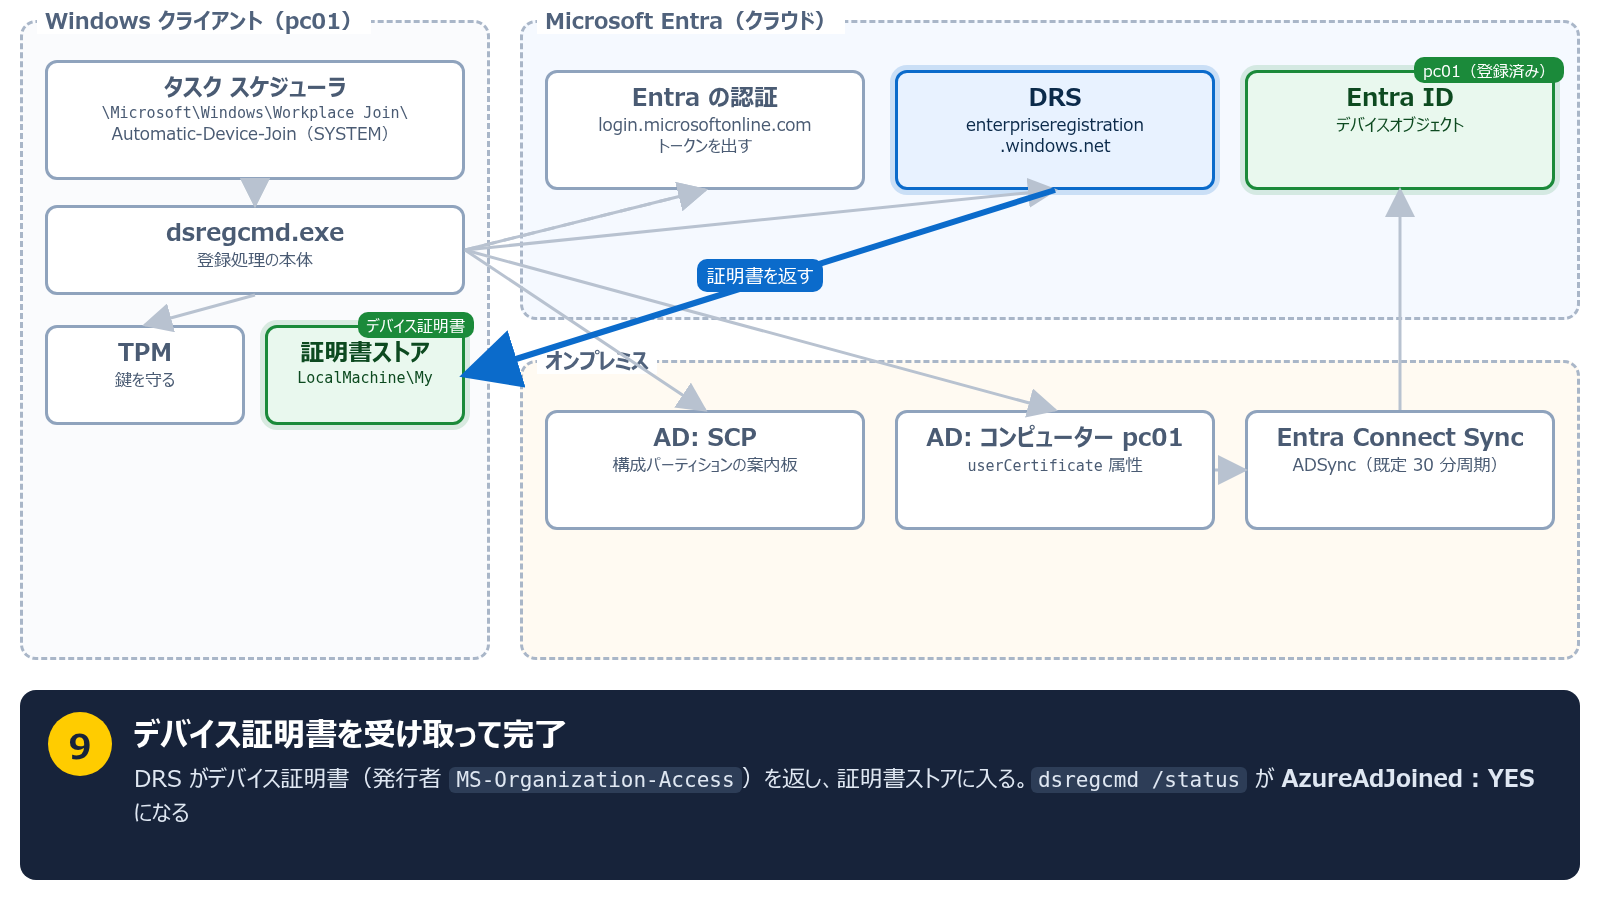
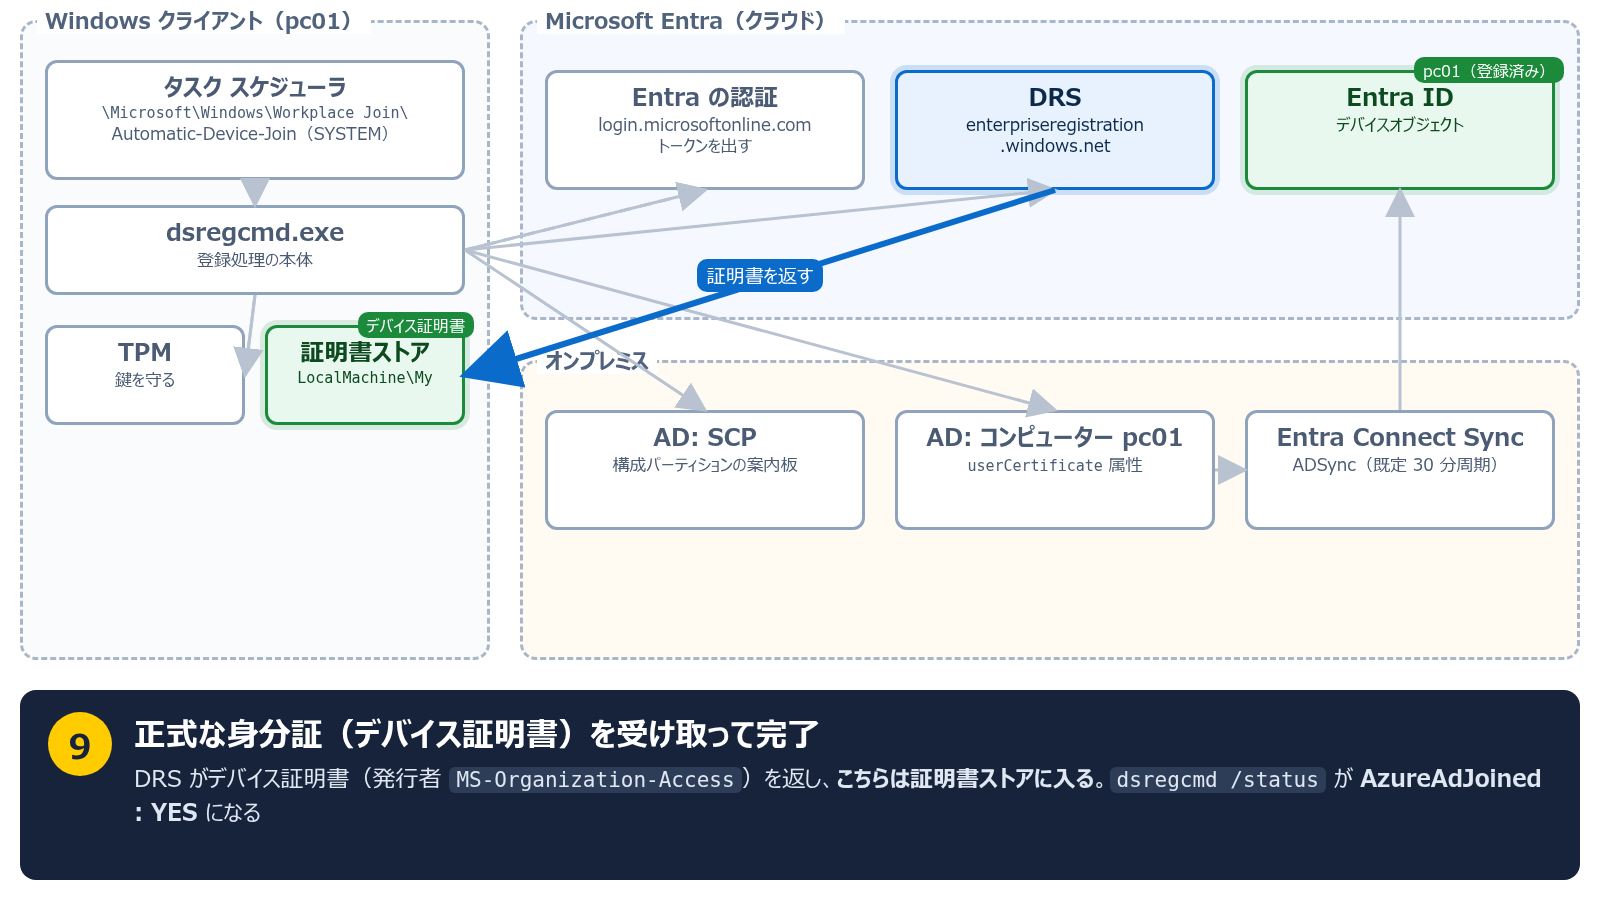
docs: clarify keys and certificates in the HCCJP 79 frames

diff --git a/HCCJP_79/session/lab.html b/HCCJP_79/session/lab.html
@@ -6,5 +6,5 @@
 <div class="box" style="left:500px;top:520px;width:390px;height:170px"><b>pc02</b>Windows 11 26200.9711<br>vTPM / ドメイン参加</div>
 <div class="box cloud" style="left:1040px;top:170px;width:490px;height:210px"><b>Cloud Sync 構成</b>ユーザーとグループだけ同期<br>デバイスは同期しない<br>同期の有効化が TDO の前提</div>
 <div class="box cloud ok" style="left:1040px;top:430px;width:490px;height:260px"><b>Device Registration Service</b>SPN: adrs/enterpriseregistration<br>.windows.net<br>タグ: KerberosPolicy:<br>ExchangeForJwt</div>
-<div class="note" style="left:70px;top:740px;color:#c62828">Entra Connect Sync は入れていない</div>
+<div class="note" style="left:70px;top:730px;color:#c62828">Entra Connect Sync は入れていない<br><span style="color:#50627c;font-size:22px">PC の TPM は Hyper-V の仮想 TPM。鍵を守るのは物理チップではなくホスト</span></div>
 </body></html>

diff --git a/HCCJP_79/session/frames/gen.py b/HCCJP_79/session/frames/gen.py
@@ -103,8 +103,8 @@ OLD = [
      "lit": ["task", "dsreg"], "arrows": [("task", "b", "dsreg", "t", "起動")]},
     {"n": "2", "title": "SCP を読んで、登録先を知る", "desc": "LDAP で AD の構成パーティションにある SCP を読む。<code>azureADName</code> / <code>azureADId</code> から、どのテナントに登録するかが分かる",
      "lit": ["dsreg", "scp"], "arrows": [("dsreg", "r", "scp", "t", "LDAP で読む")]},
-    {"n": "3", "title": "自己署名証明書を AD に書く", "desc": "PC が自分で証明書を作り、自分のコンピューター オブジェクトの <code>userCertificate</code> に書く。<b>証明書の名前がそのままデバイス ID になる</b>（実機で確認）",
-     "lit": ["dsreg", "comp"], "badge": {"comp": "証明書あり"}, "arrows": [("dsreg", "r", "comp", "t", "LDAP で書く")]},
+    {"n": "3", "title": "仮の身分証（自己署名証明書）を作って AD に置く", "desc": "<b>鍵は TPM で作る</b>。その鍵で自己署名証明書を作り、<b>証明書ストアには入れず</b> AD の <code>userCertificate</code> にだけ書く。証明書の名前がそのままデバイス ID になる（実機で確認）",
+     "lit": ["dsreg", "tpm", "comp"], "badge": {"comp": "仮の身分証"}, "arrows": [("dsreg", "b", "tpm", "r"), ("dsreg", "r", "comp", "t", "LDAP で書く")]},
     {"n": "4", "title": "まだ認証できない", "desc": "証明書で Entra に認証しようとしても、Entra にはまだこの PC がいない。<b>「デバイスが見つからない」で失敗</b>し、次のきっかけ（最長1時間後）を待つ",
      "lit": ["dsreg", "login"], "bad": ["login"], "badge": {"login": "見つからない"}, "arrows": [("dsreg", "r", "login", "b", "証明書で認証", "bad")]},
     {"n": "5", "title": "同期サーバーが変更を拾う", "desc": "Entra Connect Sync が、次の同期サイクル（<b>既定 30 分周期</b>）で <code>userCertificate</code> の付いたコンピューターを読み取る",
@@ -113,23 +113,23 @@ OLD = [
      "lit": ["sync", "entra"], "badge": {"entra": "pc01（保留）"}, "arrows": [("sync", "t", "entra", "b", "デバイスを同期")]},
     {"n": "7", "title": "次のタスク実行で、やっと認証できる", "desc": "サインインか1時間ごとの実行で、タスクがもう一度動く。今度は Entra に自分がいるので、証明書の秘密鍵で認証して <b>ID トークン</b>をもらえる",
      "lit": ["task", "dsreg", "login"], "good": ["login"], "badge": {"login": "ID トークン"}, "arrows": [("task", "b", "dsreg", "t"), ("dsreg", "r", "login", "b", "証明書で認証")]},
-    {"n": "8", "title": "TPM で鍵を作り、DRS に登録する", "desc": "TPM でデバイス鍵と転送鍵を作り、証明書の要求と ID トークンを DRS に送る",
-     "lit": ["tpm", "dsreg", "drs"], "arrows": [("dsreg", "b", "tpm", "t", "鍵"), ("dsreg", "r", "drs", "b", "登録の要求")]},
-    {"n": "9", "title": "デバイス証明書を受け取って完了", "desc": "DRS がデバイス証明書（発行者 <code>MS-Organization-Access</code>）を返し、証明書ストアに入る。<code>dsregcmd /status</code> が <b>AzureAdJoined : YES</b> になる",
+    {"n": "8", "title": "TPM で鍵を作り、DRS に登録する", "desc": "TPM で<b>新しい鍵（デバイス鍵）</b>と転送鍵を作り、証明書の要求と ID トークンを DRS に送る。正式な身分証をもらう手続き",
+     "lit": ["tpm", "dsreg", "drs"], "arrows": [("dsreg", "b", "tpm", "r", "鍵"), ("dsreg", "r", "drs", "b", "登録の要求")]},
+    {"n": "9", "title": "正式な身分証（デバイス証明書）を受け取って完了", "desc": "DRS がデバイス証明書（発行者 <code>MS-Organization-Access</code>）を返し、<b>こちらは証明書ストアに入る</b>。<code>dsregcmd /status</code> が <b>AzureAdJoined : YES</b> になる",
      "lit": ["drs", "store", "entra"], "good": ["store", "entra"], "badge": {"store": "デバイス証明書", "entra": "pc01（登録済み）"}, "arrows": [("drs", "b", "store", "r", "証明書を返す")]},
 ]
 NEW = [
     {"n": "0", "title": "新しい方式の登場人物", "desc": "同期サーバーの代わりに、<b>WS2025 の DC の KDC</b> と <b>Entra の Kerberos</b> が登場する。PC 側の入口は同じタスク スケジューラ", "lit": []},
     {"n": "1", "title": "タスクが起動し、SCP を読む", "desc": "ここまでは従来と同じ。<code>Automatic-Device-Join</code> が <code>dsregcmd.exe</code> を動かし、SCP から登録先のテナントを知る",
      "lit": ["task", "dsreg", "scp"], "arrows": [("task", "b", "dsreg", "t"), ("dsreg", "r", "scp", "t", "LDAP で読む")]},
-    {"n": "2", "title": "新方式を試す: DEVICE_AUTO_KERB", "desc": "ビルドが新しい Windows 11 は、まず Kerberos での参加を試す。<b>クライアントに追加の設定は要らない</b>。自己署名証明書も従来どおり AD に書かれる（実機で確認）",
+    {"n": "2", "title": "新方式を試す: DEVICE_AUTO_KERB", "desc": "ビルドが新しい Windows 11 は、まず Kerberos での参加を試す。<b>本人確認を Kerberos チケットで行う</b>。クライアントに追加の設定は要らない。仮の身分証も従来どおり AD に書かれる（実機で確認）",
      "lit": ["dsreg", "lsa", "comp"], "badge": {"comp": "証明書あり"}, "arrows": [("dsreg", "b", "lsa", "t", "チケットを要求"), ("dsreg", "r", "comp", "t")]},
     {"n": "3", "title": "DC から TGT と「紹介状」をもらう", "desc": "PC のコンピューター アカウントで DC から TGT を取り、<b>TDO があるので</b> Entra 宛ての紹介チケット <code>krbtgt/KERBEROS.MICROSOFTONLINE.COM</code> ももらう",
      "lit": ["lsa", "kdc"], "badge": {"kdc": "紹介状を発行"}, "arrows": [("lsa", "r", "kdc", "l", "Kerberos")]},
     {"n": "4", "title": "Entra の KDC からチケットをもらう", "desc": "紹介状を HTTPS で Entra の Kerberos に出し、<b>DRS 宛てのサービス チケット</b> <code>adrs/enterpriseregistration.windows.net</code> をもらう",
      "lit": ["lsa", "ekdc"], "good": ["ekdc"], "arrows": [("lsa", "r", "ekdc", "b", "KDC プロキシ（HTTPS）")]},
     {"n": "5", "title": "チケットを身分証にして DRS に登録", "desc": "チケットを DRS に出す。DRS はタグ <code>KerberosPolicy:ExchangeForJwt</code> によってチケットを受け付け、Entra にデバイスがいなくても PC を確認できる",
-     "lit": ["dsreg", "drs", "tpm"], "arrows": [("dsreg", "b", "tpm", "t", "鍵"), ("dsreg", "r", "drs", "b", "チケット＋登録の要求")]},
+     "lit": ["dsreg", "drs", "tpm"], "arrows": [("dsreg", "b", "tpm", "r", "鍵"), ("dsreg", "r", "drs", "b", "チケット＋登録の要求")]},
     {"n": "6", "title": "その場で完了", "desc": "DRS がデバイスを作ってデバイス証明書を返す。<b>同期を待つ工程が無い</b>。デモ環境では 16〜18 秒で終わった",
      "lit": ["drs", "store", "entra"], "good": ["store", "entra"], "badge": {"store": "デバイス証明書", "entra": "pc01（登録済み）"}, "arrows": [("drs", "r", "entra", "l", "作成"), ("drs", "b", "store", "r", "証明書を返す")]},
 ]

diff --git a/HCCJP_79/session/slides.md b/HCCJP_79/session/slides.md
@@ -103,6 +103,24 @@ HCCJP 第79回勉強会　2026年11月13日
 
 ---
 
+<!-- _class: small -->
+
+# 身分証は2段階
+
+| | 仮の身分証 | 正式な身分証 |
+|---|---|---|
+| もの | **自己署名証明書** | **デバイス証明書** |
+| 発行者 | PC 自身（だれでも作れる） | **DRS**（`MS-Organization-Access`） |
+| 秘密鍵 | TPM | TPM（別の鍵） |
+| 置き場所 | **AD の `userCertificate` だけ** | 証明書ストア `LocalMachine\My` |
+| 役目 | 「AD の pc01 本人です」と示す | Entra とのやり取りに使う |
+
+自称の身分証は Entra に信用されない。だから**本人確認に使って、正式な身分証と取り替える**
+（鍵と置き場所はデモ環境の Windows 11 で確認）
+
+---
+
+
 # 従来の流れを、1コマずつ追う
 
 次のページから、処理の順番に沿って図を進めます
